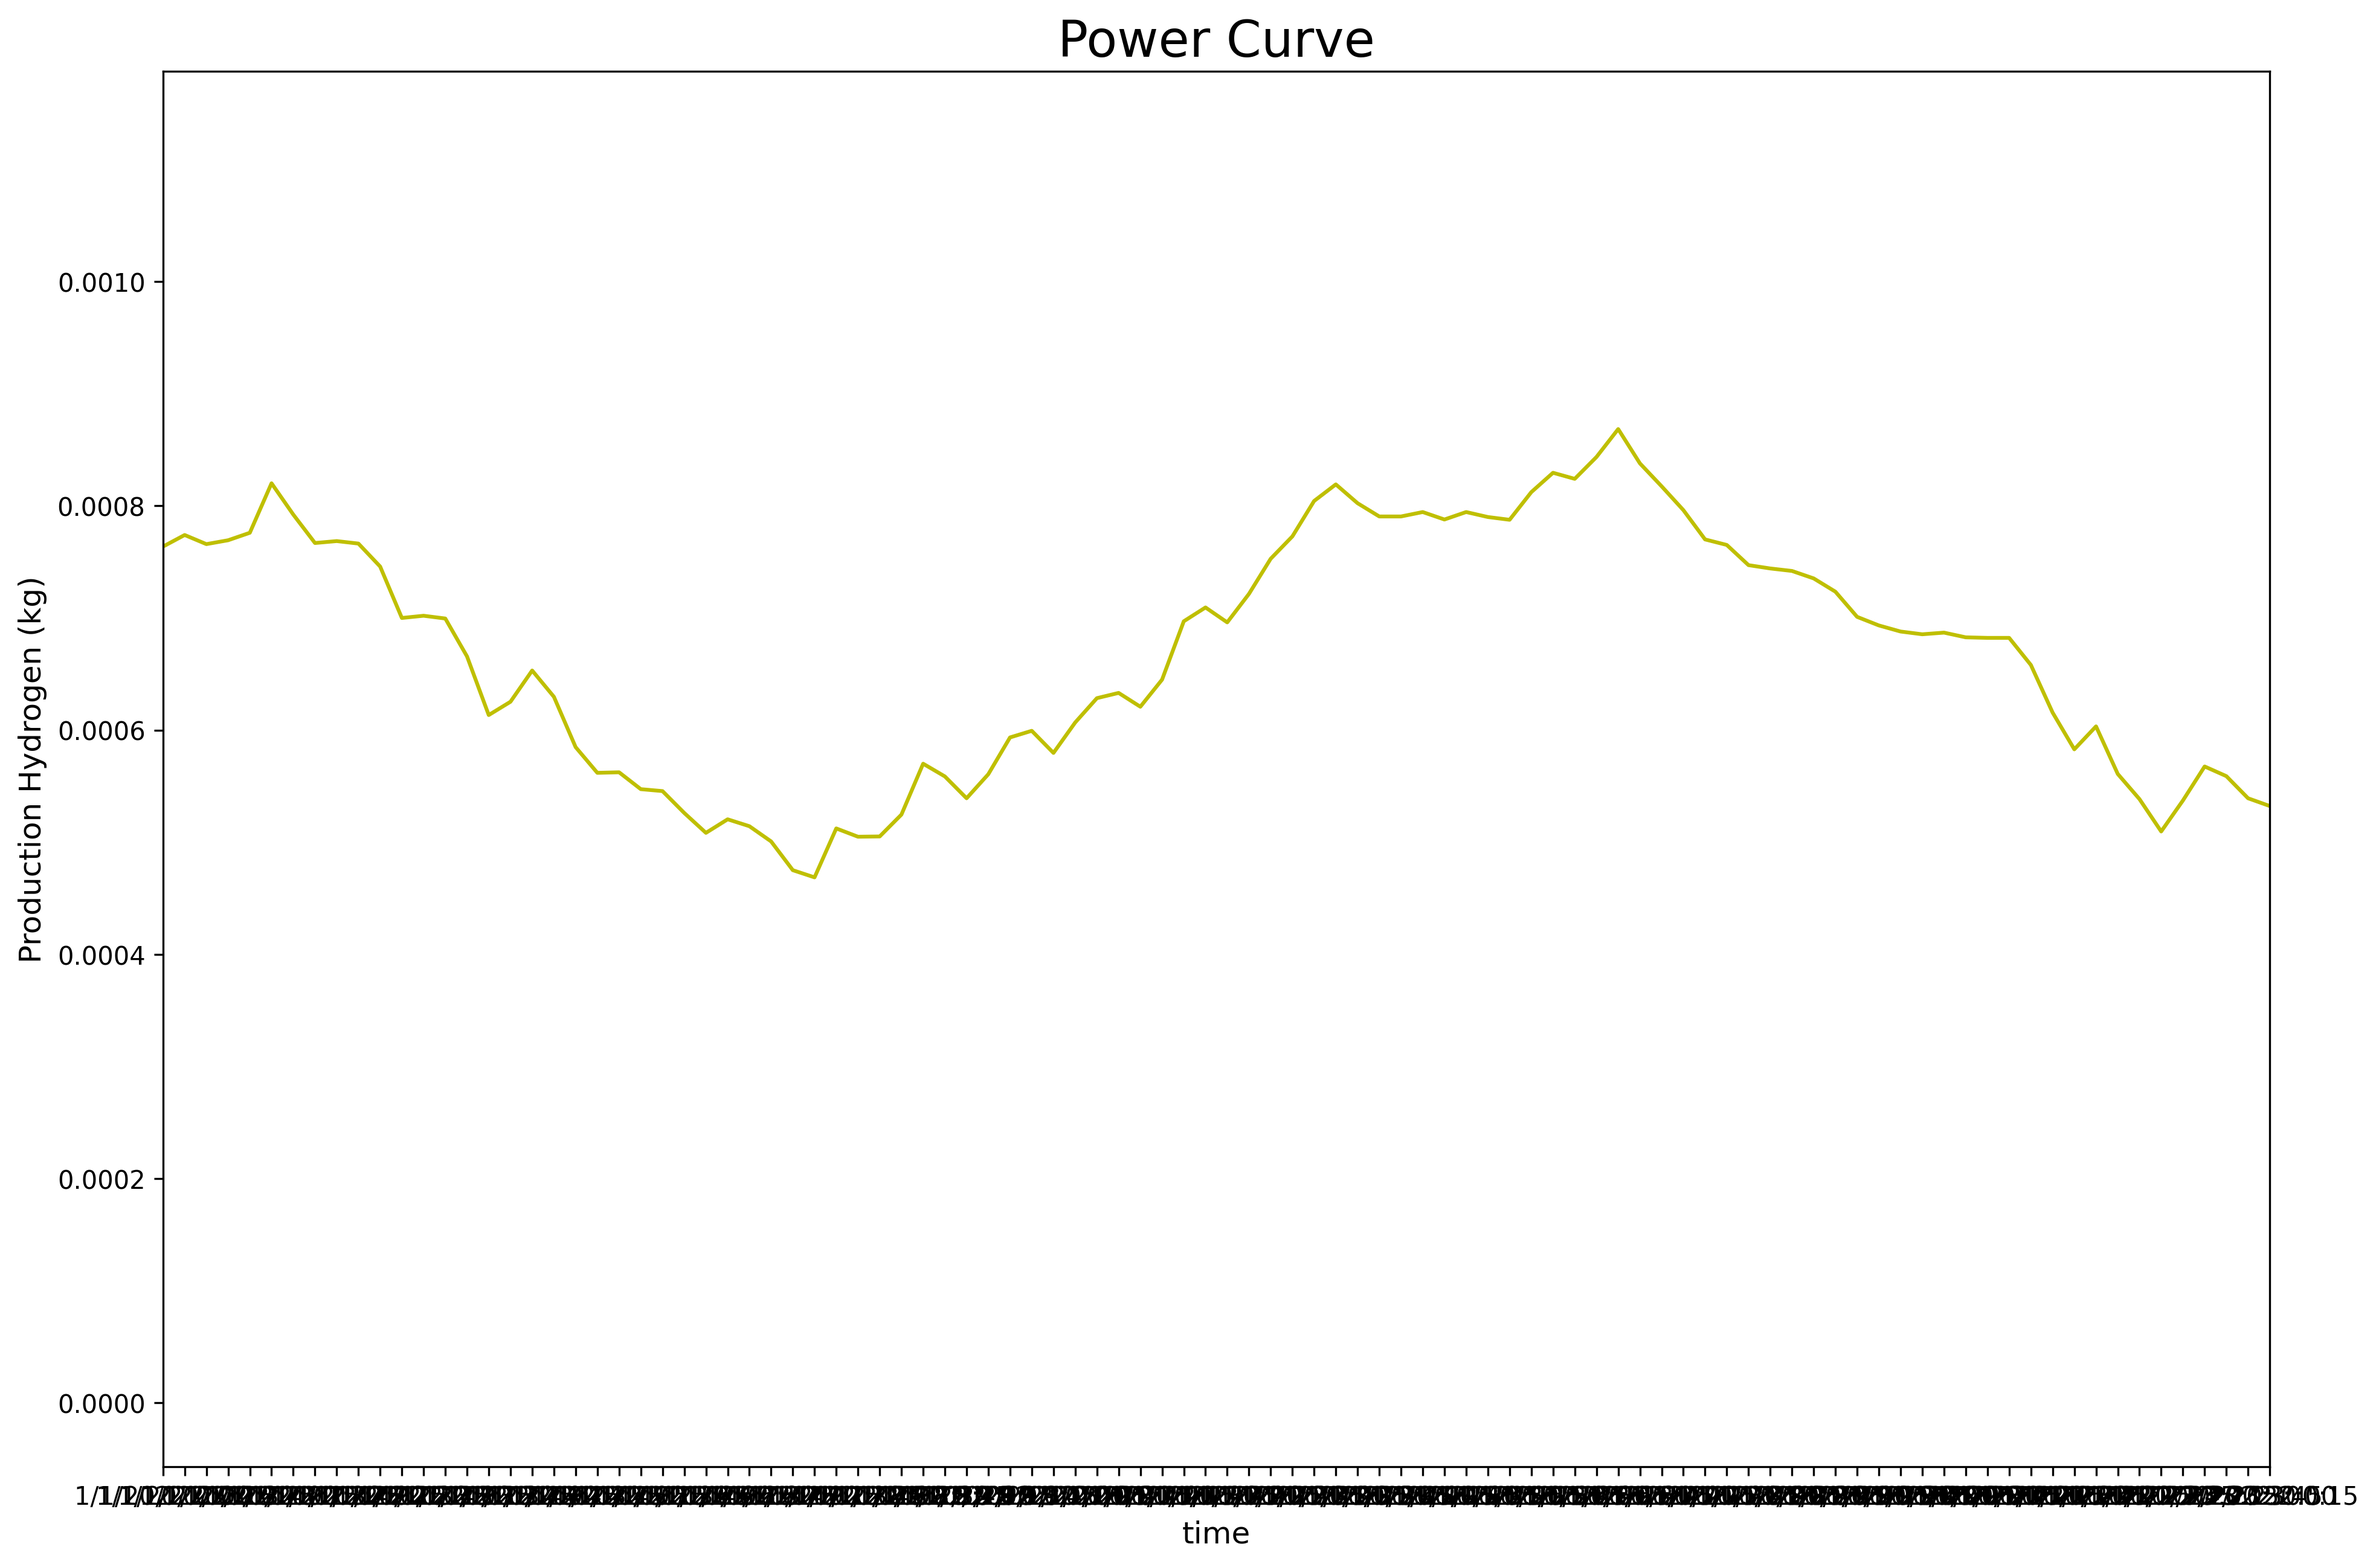
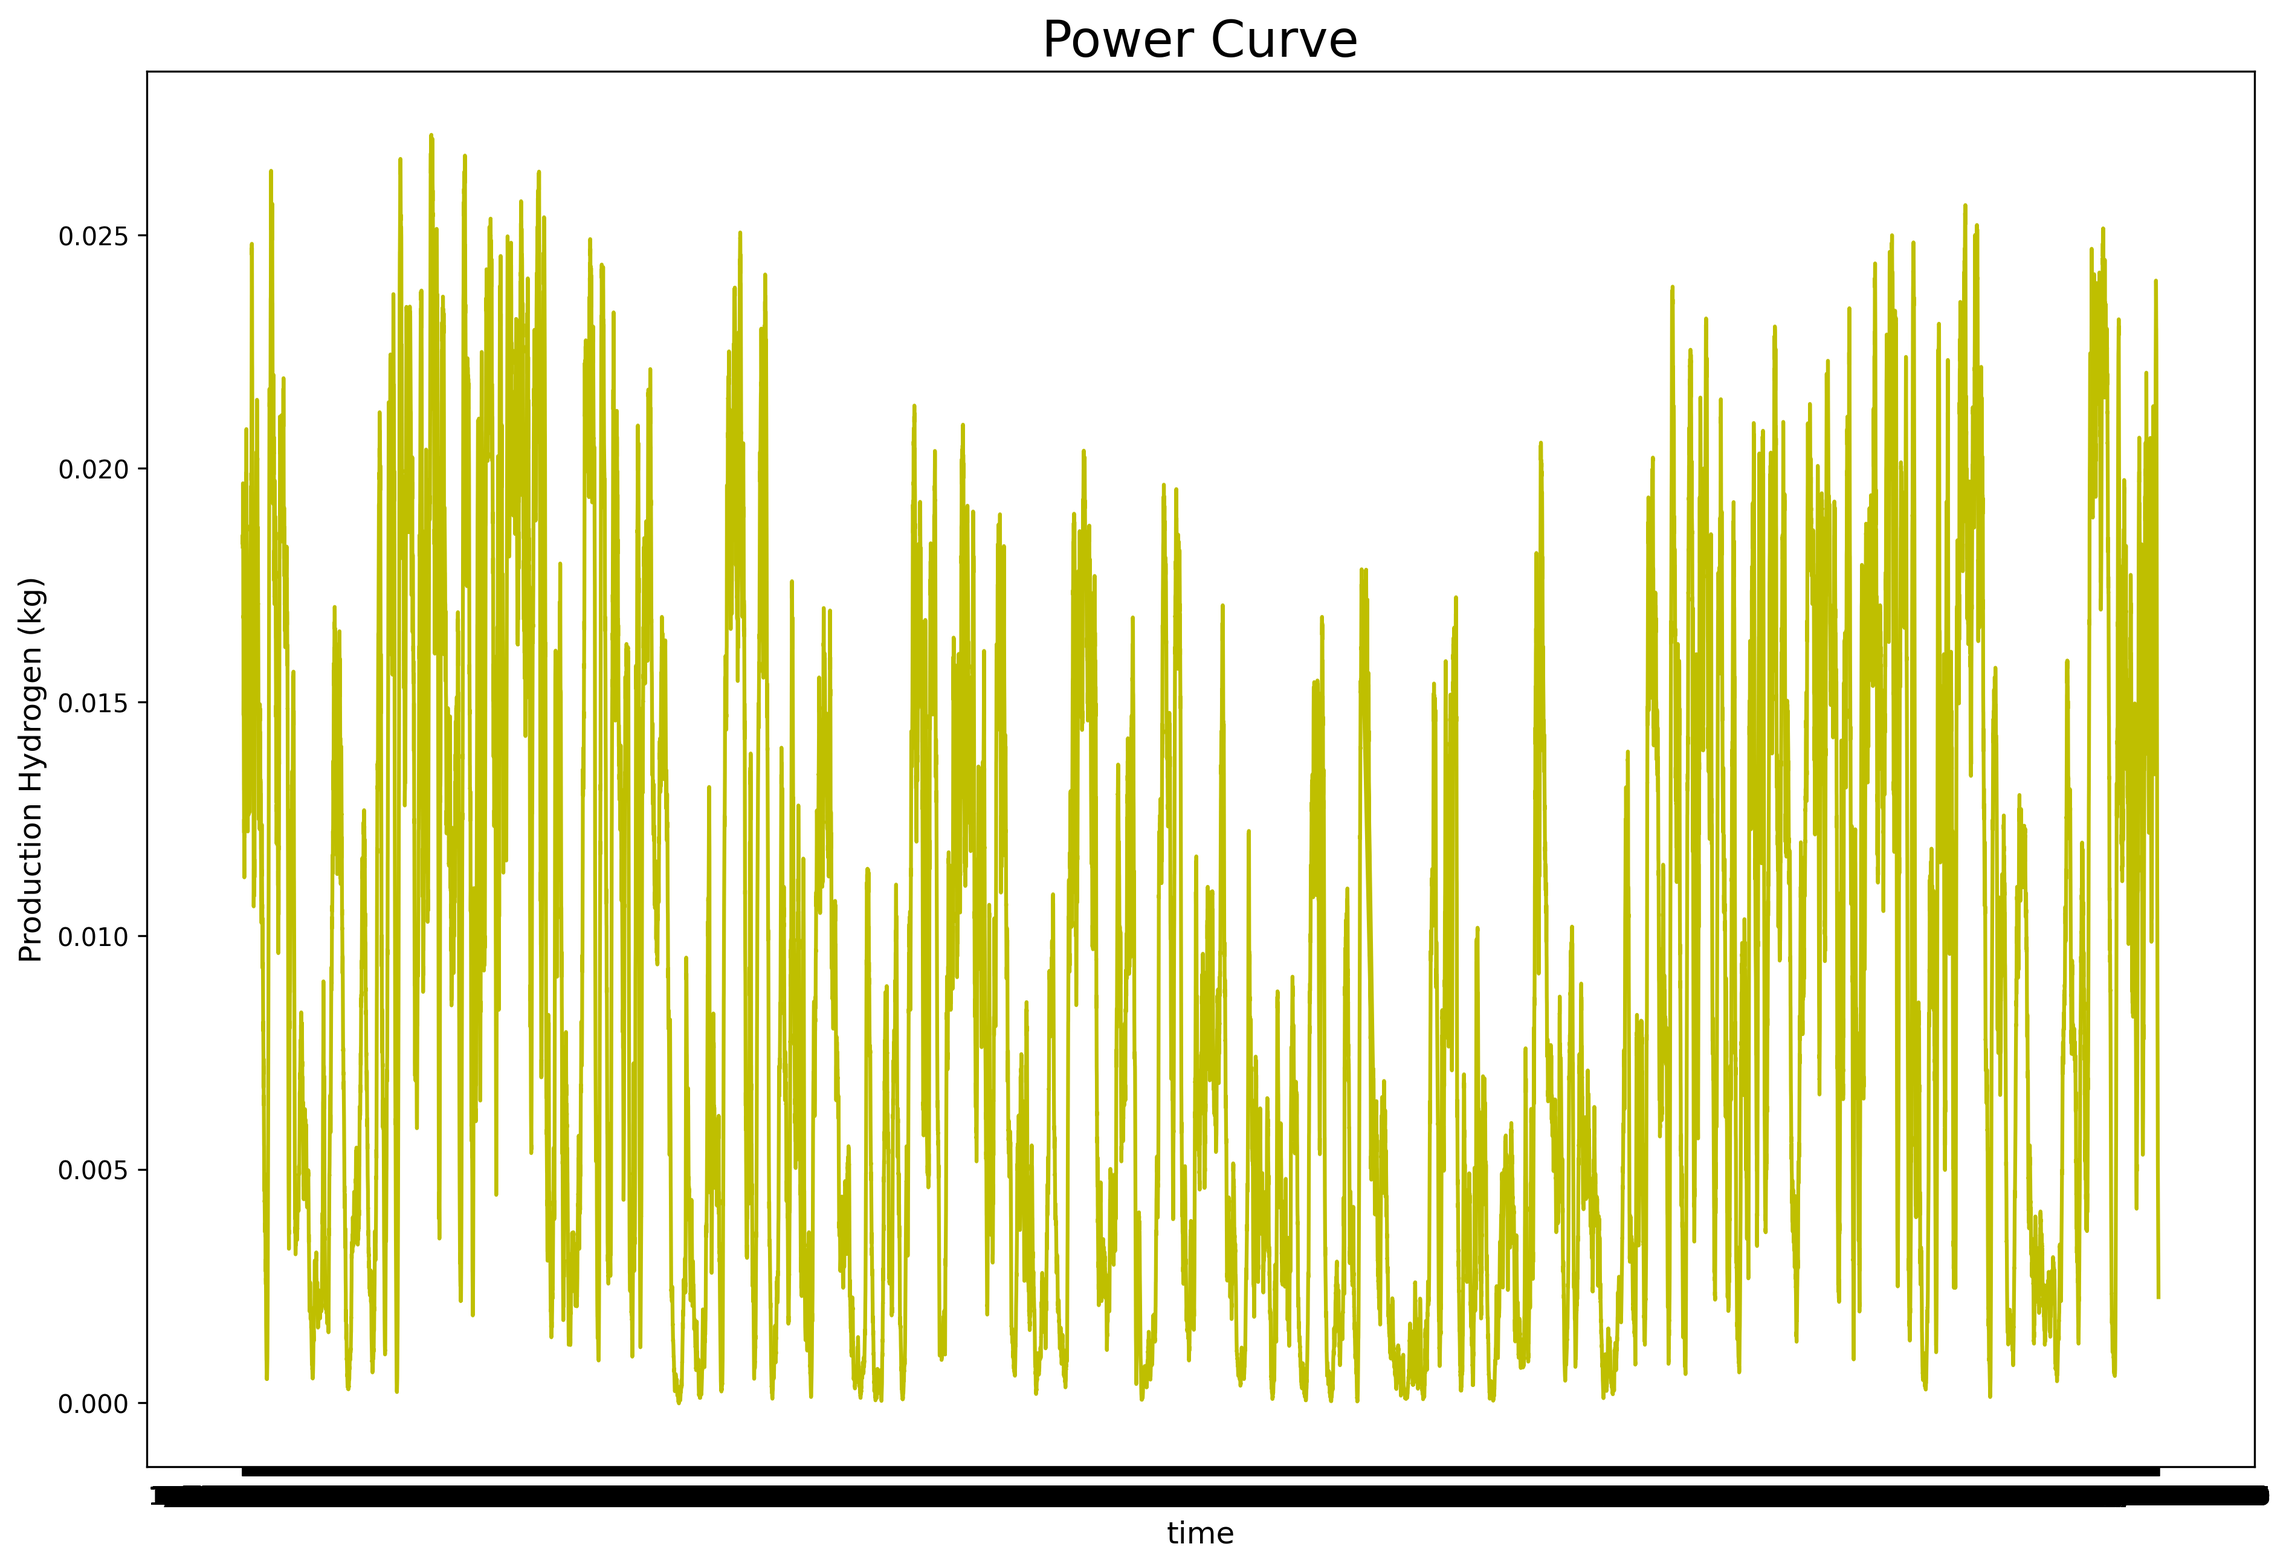
final reviwe 27.feb.2023

diff --git a/Hydrogen_Production_by_Wind_Turbines .py b/Hydrogen_Production_by_Wind_Turbines .py
@@ -73,15 +73,26 @@ Q_cell=0
 N_dot_H2O_reacted=J / (2 * F)               #Molar rate of H2O consumed in the reaction
 N_dot_H2_out = N_dot_H2O_reacted            #Molar outlet flow rate of H2
 η=(N_dot_H2_out*HHV_H2)/(E+Q_cell+Q_H2O)
-P=df_wind_genereation_Actual                #available energy
+
+
+P=df_wind_genereation_Actual*24             #available energy
+
+
 Vc=1.229                                    #Cell voltage
-F = 96485.3365                              #Faraday's constant (C/mol)
 M=1.00794                                   #molar mass of hydrogen (g/mol)
-m_H2=(P/(Vc*2*F))*((M*η))
-print("m_H2: ","\n",m_H2[0:97])
+m_H2=(P/(Vc*2*F))*M*η #kg
+print("m_H2: ",m_H2 )
+a=print(sum(m_H2[0:97]))
+b=print(sum(m_H2[98:192]))
+c=print(sum(m_H2[193:288]))
+d=print(sum(m_H2[289:384]))
+e=print(sum(m_H2[385:480]))
+f=print(sum(m_H2[481:576]))
+g=print(sum(m_H2[577:672]))
+
 
 df_hydrogen_data=["m_H2"]
-print(df_hydrogen_data)
+#print(df_hydrogen_data)
 
 
 df_hydrogen_data = pd.DataFrame(columns=["m_H2"], index=range(df_wind_data.shape[0]))
@@ -91,9 +102,9 @@ df_hydrogen_data.head()
 
 
 
-#plt.plot(df_wind_data["DateTime"],df_hydrogen_data["m_H2"], color='y')
-#plt.title('Power Curve', fontsize=20)
-#plt.ylabel('Production Hydrogen (kg)', fontsize=12)
-#plt.xlabel('time', fontsize=12)
+plt.plot(df_wind_data["DateTime"],df_hydrogen_data["m_H2"], color='y')
+plt.title('Power Curve', fontsize=20)
+plt.ylabel('Production Hydrogen (kg)', fontsize=12)
+plt.xlabel('time', fontsize=12)
 #plt.xlim(0,97)
-#plt.savefig('power_curve_wind_turbine_2.png', dpi=300, bbox_inches='tight')
+plt.savefig('power_curve_wind_turbine_2.png', dpi=300, bbox_inches='tight')
